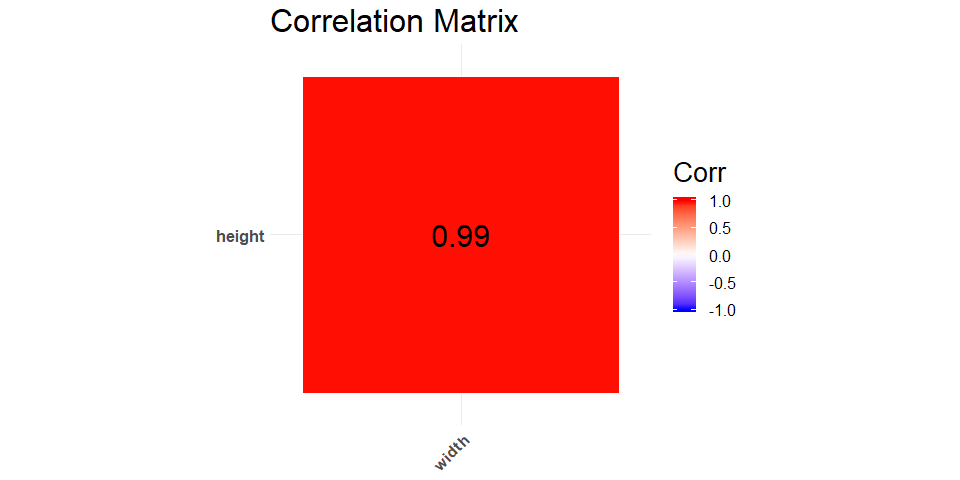
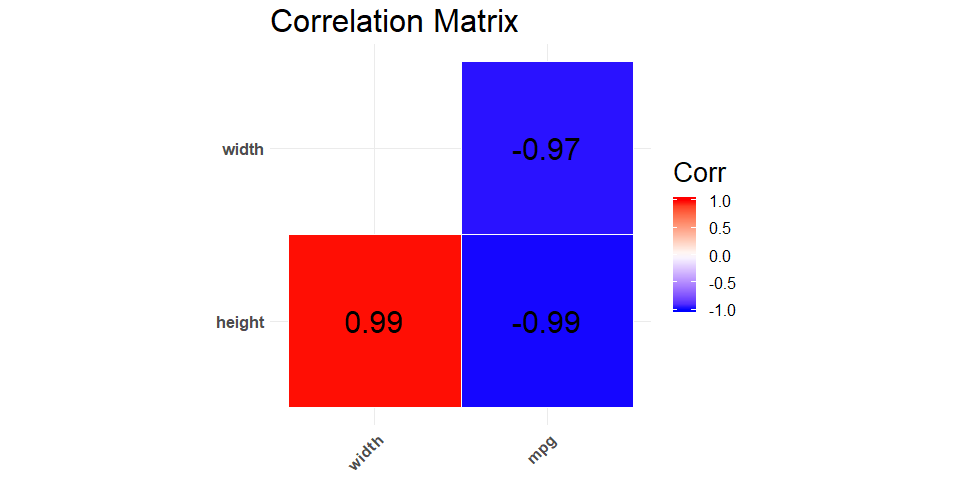
updated dependencies and added link to the vignette

diff --git a/README.md b/README.md
@@ -64,7 +64,9 @@ devtools::install_github("UBC-MDS/edar")
 ## Dependencies
 
   - R version 3.6.2 and R packages:
-      - rlang==0.4.2
+      - rlang==0.4.5
+      - vctrs==0.2.1
+      - lifecycle==0.1.0
       - dplyr==0.8.3
       - tibble==2.1.3
       - purrr==0.3.3
@@ -73,13 +75,20 @@ devtools::install_github("UBC-MDS/edar")
       - ggcorrplot==0.1.3
       - testthat==2.1.0
 
+## Vignette
+
+Please click
+[here](https://ubc-mds.github.io/edar/articles/edar-vignette.html) for
+the Vignette of this package.
+
 ## Example
 
 This is a basic example which shows you how to solve a common problem:
 
 ``` r
 library(edar)
-X <- dplyr::tibble(type = c('Car', 'Bus', 'Car'), height = c(10, 20, 15), width = c(10, 15, 13))
+X <- dplyr::tibble(type = c('Car', 'Bus', 'Car'), height = c(10, 20, 15), 
+                   width = c(10, 15, 13), mpg = c(18, 10, 15))
 
 # Evaluates a dataframe for NA values
 describe_na_values(X)
@@ -90,6 +99,9 @@ describe_na_values(X)
 #> [1] 1 1 1
 #> 
 #> $width
+#> [1] 1 1 1
+#> 
+#> $mpg
 #> [1] 1 1 1
 
 # Show the EDA for the numeric variables
@@ -121,7 +133,7 @@ describe_cat_var(X, c('type'))
 ``` r
 
 # Plot the correlation matrix
-calc_cor(X, c('height', 'width'))
+calc_cor(X, c('height', 'width', 'mpg'))
 ```
 
 <img src="man/figures/README-example-3.png" width="100%" />
